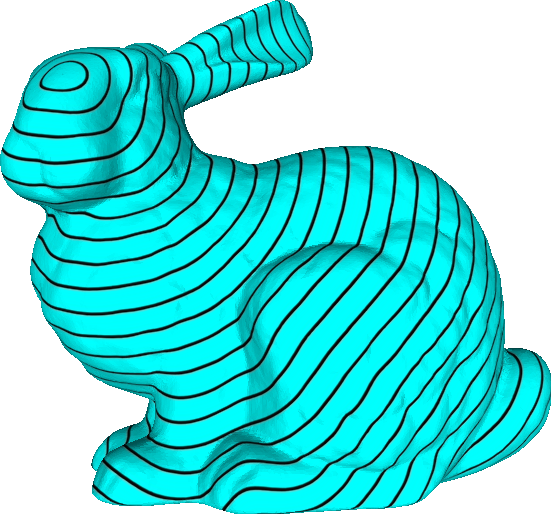
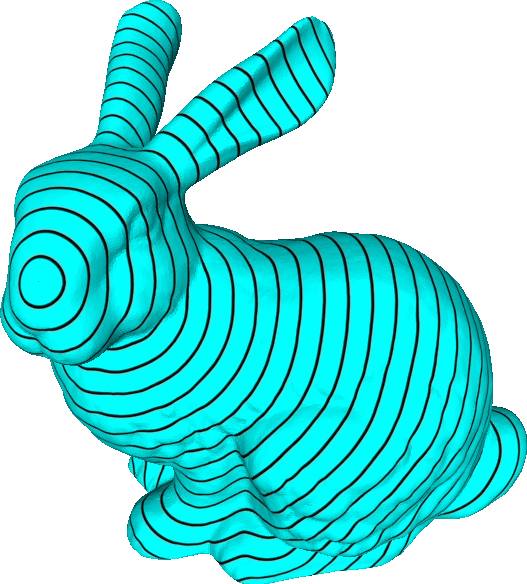
Modify README.md.

diff --git a/README.md b/README.md
@@ -8,20 +8,28 @@ A direct application of discrete LBO is calculate the mean curvature vector of a
 <div align="center">
 <img src="figures/curvature_value_crop.png" width="200" align="center"/>
 <img src="figures/curvature_vector_crop.png" width="200" align="center"/>
+<br>
+<caption align="bottom">Figure 1. An example of meancurvature field and vectors computed from LBO</caption>
 </div>
 
 ### Disk Harmonic Map
 Disk Harmonic Map maps a surface homeomorphic to the planar unit disk. It is a popular parameterization method. An example of disk harmonic map on a nefertiti model is shown below:
 <div align="center">
-<img src="figures/harmonic_map00_crop.png" width="200" align="center"/>
-<img src="figures/harmonic_map01_crop.png" width="200" align="center"/>
-<img src="figures/harmonic_map02_crop.png" width="270" align="center"/>
+<img src="figures/harmonic_map00_crop.png" width="150" align="center"/>
+<img src="figures/harmonic_map01_crop.png" width="150" align="center"/>
+<img src="figures/harmonic_map02_crop.png" width="200" align="center"/>
+<br>
+<caption align="bottom">Figure 2. An example of disk harmonic maps. Left to right: Original mesh, mapped mesh, stretched mesh on unit disk</caption>
 </div>
 
 ### Heat method
-The heat method ([1]) is a discrete geodesic solution on various domains (grids, triangle/polygonal meshes, point clouds etc.). The implementation here is based on triangle mesh only. Here is an example output of heat method on a bunny model:
+The heat method ([1]) is a discrete geodesic solution on various domains (grids, triangle/polygonal meshes, point clouds etc.). It's specially suitable for calculating distance fields with different sets of sources on the same mesh for several times. The implementation here is based on triangle mesh only. Here is an example output of heat method on a bunny model:
 <div align="center">
 <img src="figures/heat_method00_crop.png" width="200" align="center"/>
+<img src="figures/heat_method01_crop.png" width="200" align="center"/>
+<img src="figures/heat_method02_crop.png" width="200" align="center"/>
+<br>
+<caption align="bottom">Figure 3. An example of geodesic distance fields generated by heat method.</caption>
 </div>
 
 [1] Crane K, Weischedel C, Wardetzky M. Geodesics in heat: A new approach to computing distance based on heat flow[J]. ACM Transactions on Graphics (TOG), 2013, 32(5): 152.
